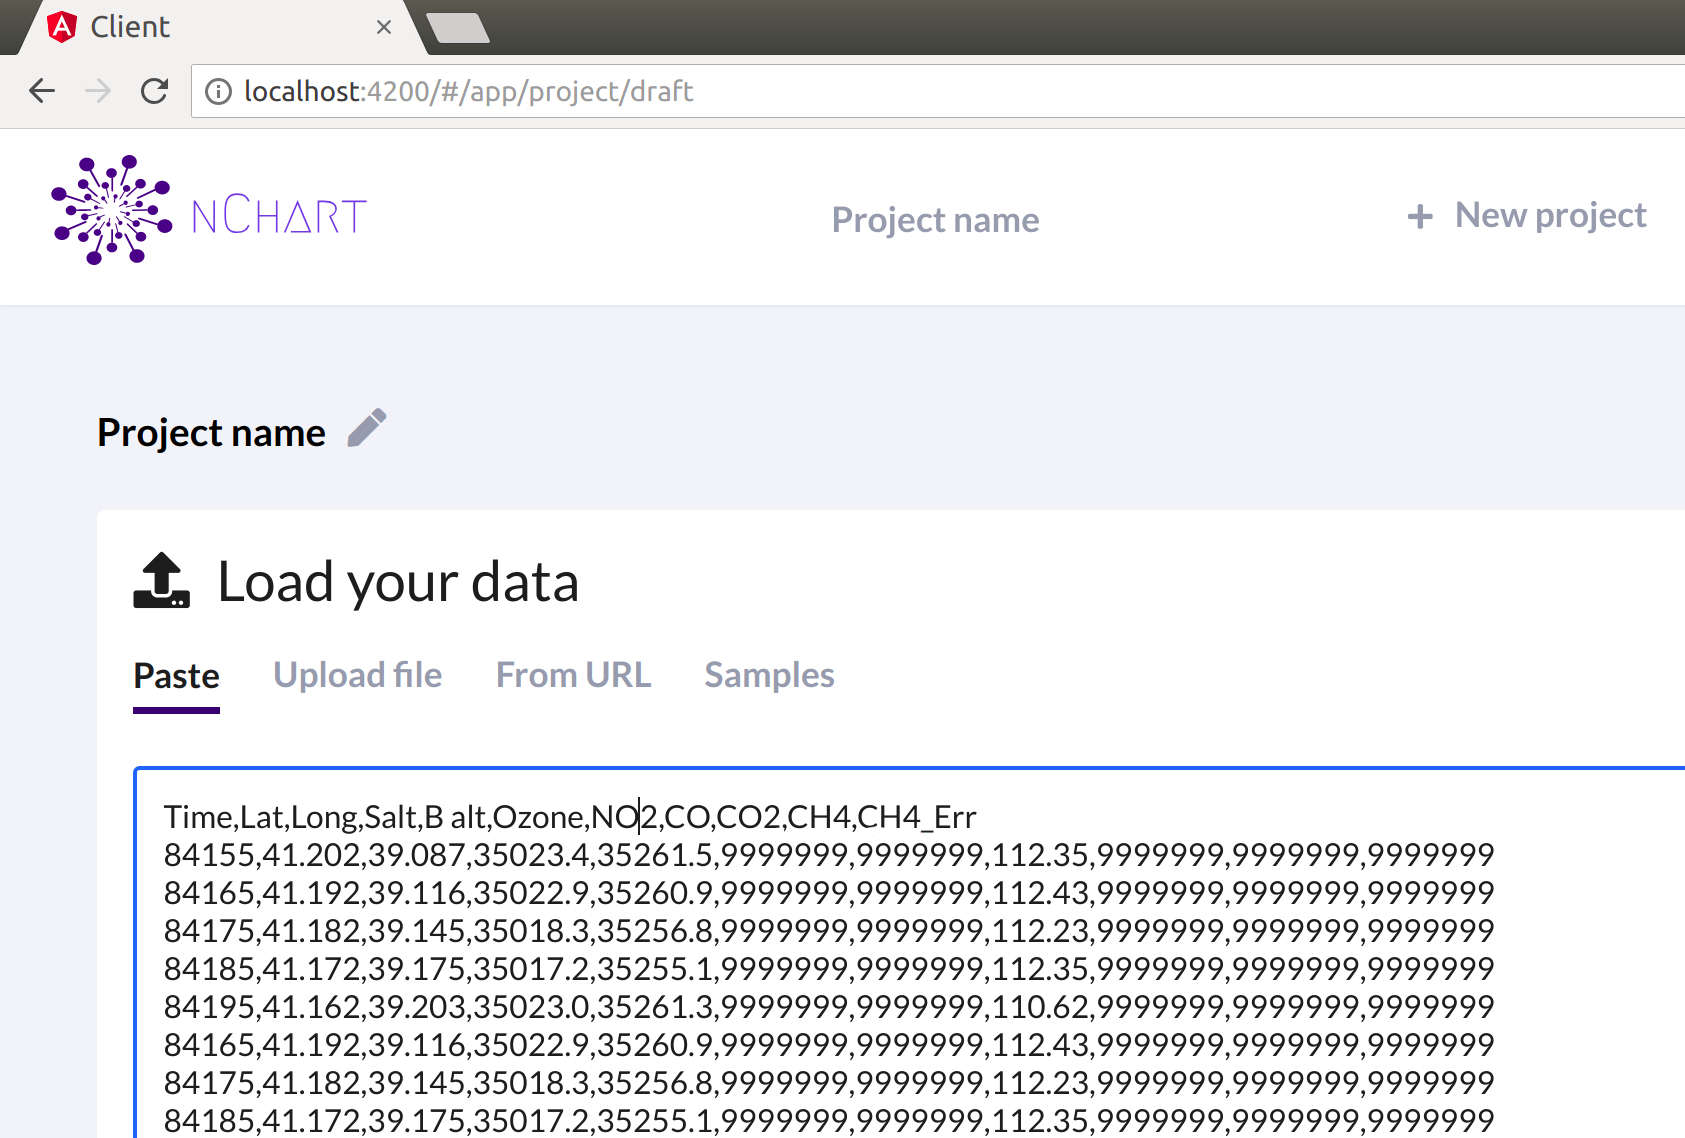
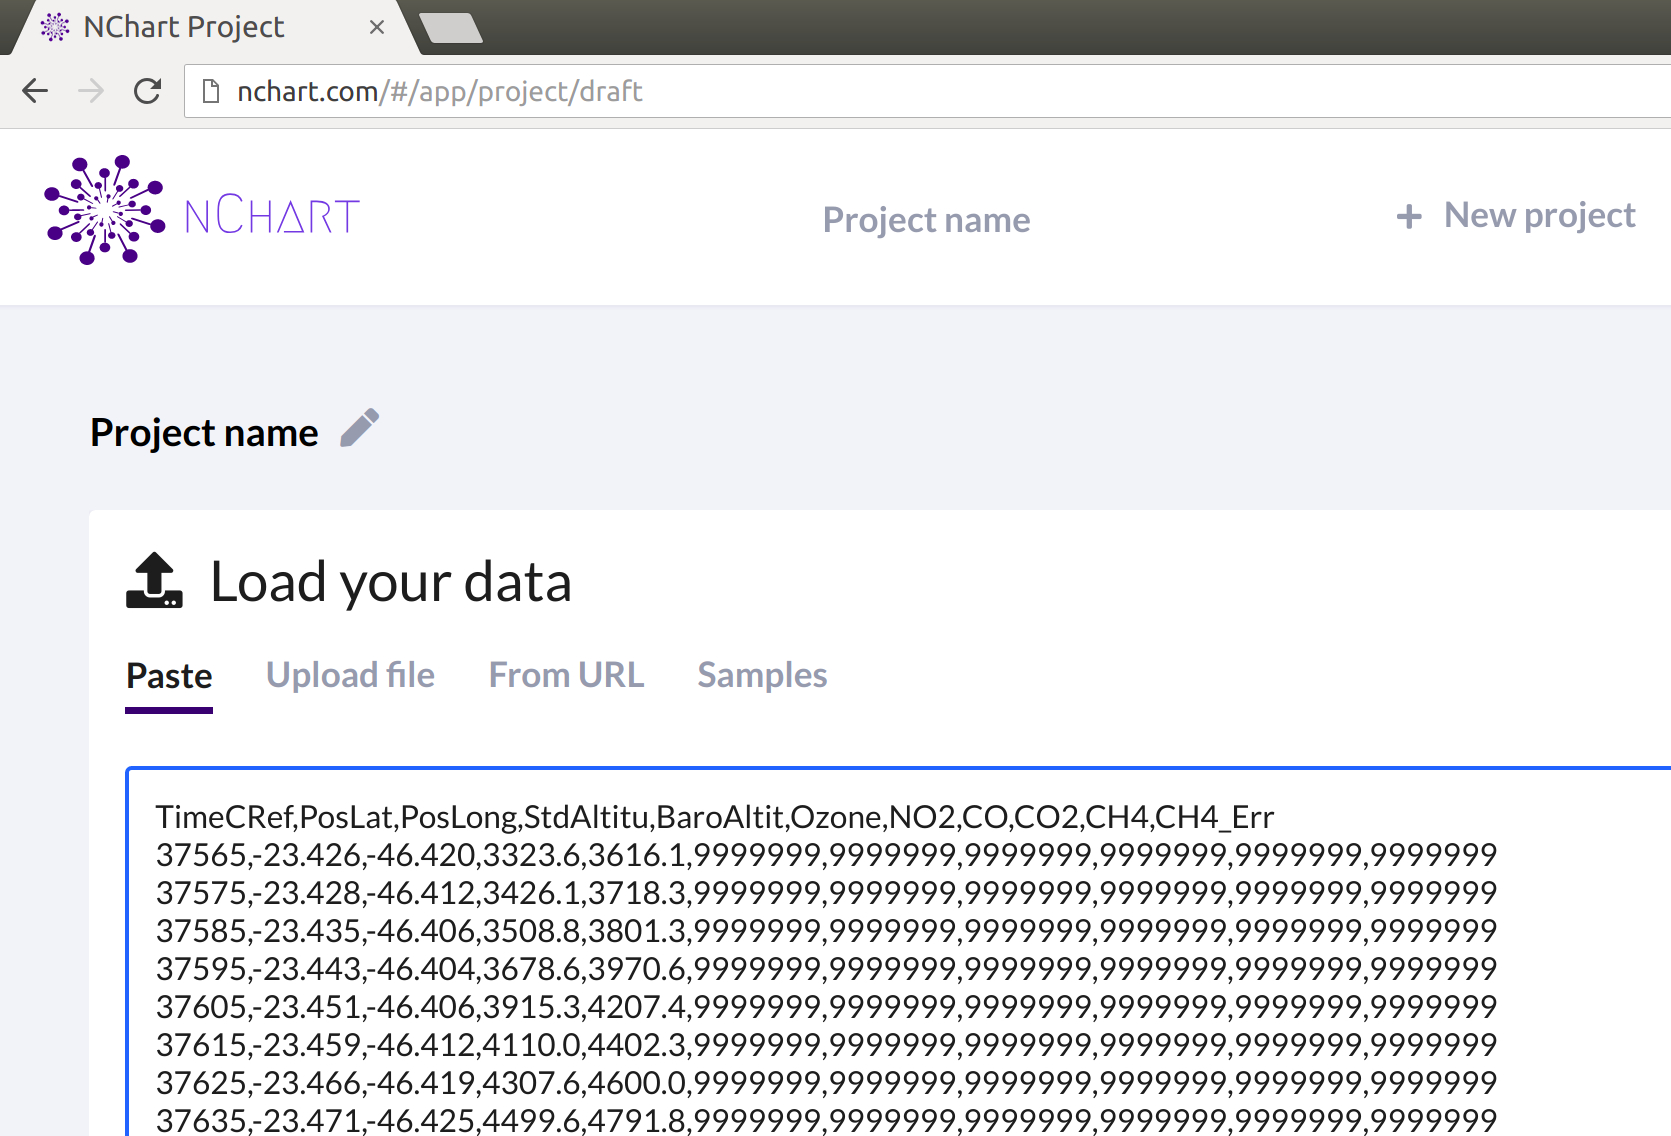
Styles fixed & Screenshot changed

diff --git a/client/src/theme/components/landing-page.sass b/client/src/theme/components/landing-page.sass
@@ -13,10 +13,10 @@
 	overflow: hidden
 
 	.landing-text
-		width: 45%
-		max-width: 546px
-		min-width: calc(320px - 2rem)
+		// width: 45%
+		// max-width: 546px
 		position: relative
+		min-width: 640px
 	
 	.description
 		font-size: 2rem
@@ -50,18 +50,23 @@
 	z-index: -1
 
 
-@media screen and(max-width: 1000px)
+@media screen and(max-width: 1200px)
 	.landing-header
 		.landing-image
 			transform: translateX(20px)
 
-@media screen and(max-width: 800px)
+@media screen and(max-width: 1000px)
 	.landing-header
 		flex-wrap: wrap
 		padding: 160px 3rem 0 3em
 		.landing-text
 			width: 90%
 			margin: 0 auto
+			min-width: 520px
+			.description
+				font-size: 1.6rem
+				&.label
+					font-size: 1rem
 		.landing-image
 			width: 100%
 			transform: translateX(0)
@@ -71,9 +76,15 @@
 				width: 100%
 				height: auto
 
-@media screen and(max-width: 530px)
+@media screen and(max-width: 640px)
 	.landing-header
 		height: 100%
 		padding: 80px 1rem 0 1em
+		.landing-text
+			min-width: calc(320px - 2rem)
+			.description
+				font-size: 1.5rem
+				&.label
+					font-size: 1rem
 		.landing-image
 			display: none

diff --git a/client/src/index.html b/client/src/index.html
@@ -2,7 +2,7 @@
 <html lang="en">
 <head>
   <meta charset="utf-8">
-  <title>Client</title>
+  <title>NChart Project</title>
   <base href="/">
 
   <meta name="viewport" content="width=device-width, initial-scale=1">
